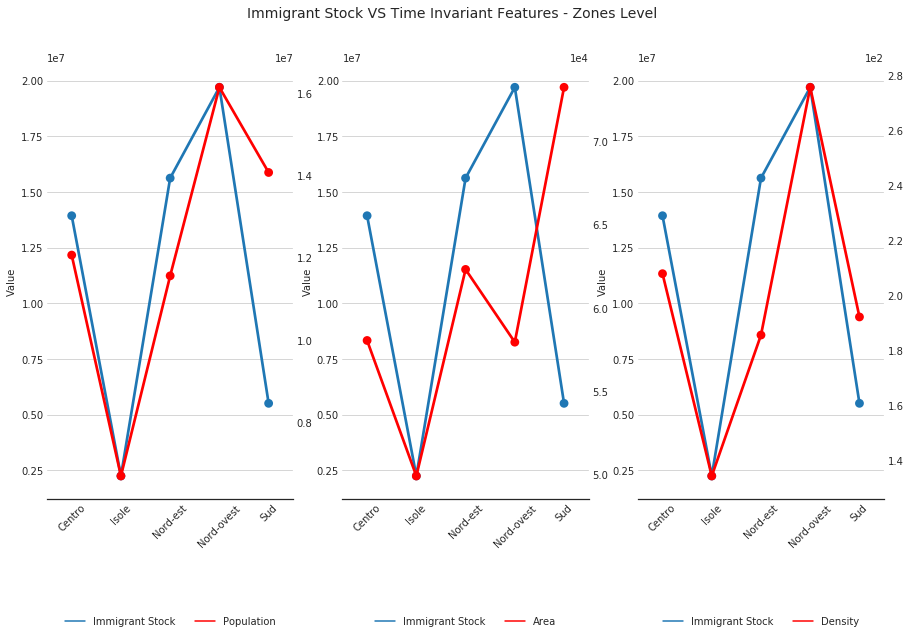
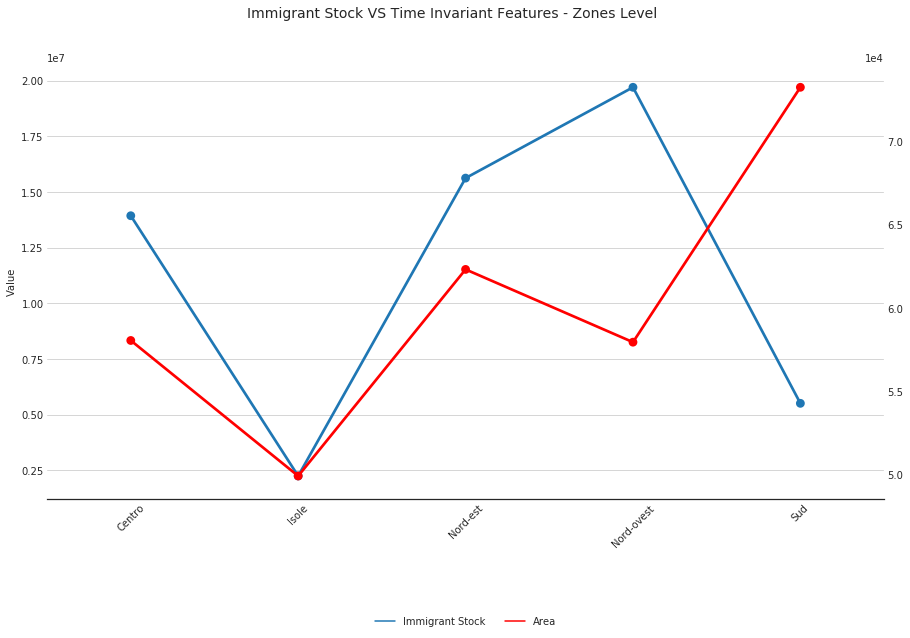
update plots

diff --git a/plot_data_functions.py b/plot_data_functions.py
@@ -8,7 +8,7 @@ import matplotlib.lines as mlines
 def relation_plot_time_invariant(data_, cols, y, rot, title, save, path):
     fig = plt.figure(1, figsize=(15,8))
 
-    plt_seed = 131
+    plt_seed = 111
     for c in cols:
         sns.set_style("whitegrid")
 

diff --git a/README.md b/README.md
@@ -110,7 +110,9 @@ To compute the distances between Sicily-Sardinia and the other Italian regions, 
 In particular:
 - from Sicily: ![](https://latex.codecogs.com/gif.latex?%5Cleft%5C%7B%5Cbegin%7Bmatrix%7D%20d_%7B%28origin%2C%20Trapani%29%7D%20&plus;%20d_%7B%28Trapani%2C%20Cagliari%29%7D%20&plus;%20d_%7B%28Cagliari%2C%20destination%29%7D%20%26%20%5Ctext%7Bif%20destination%20in%20Sardinia%7D%20%5C%5C%20d_%7B%28origin%2C%20Messina%29%7D%20&plus;%20d_%7B%28Messina%2C%20Villa%20San%20Giovanni%29%7D%20&plus;%20d_%7B%28Villa%20San%20Giovanni%2C%20destination%29%7D%20%26%20%5Ctext%7Botherwise%7D%20%5Cend%7Bmatrix%7D%5Cright.)
 - from Sardinia:
-![](https://latex.codecogs.com/gif.latex?%5Cleft%5C%7B%5Cbegin%7Bmatrix%7D%20d_%7B%28origin%2C%20Cagliari%29%7D%20&plus;%20d_%7B%28Cagliari%2C%20Trapani%29%7D%20&plus;%20d_%7B%28Trapani%2C%20destination%20%29%7D%20%26%20%5Ctext%7Bif%20destination%20in%20Sicily%7D%20%5C%5C%20min%5Cleft%20%28d_%7BMessina%7D%2C%20d_%7BLivorno%7D%2C%20d_%7BCivitavecchia%7D%20%5Cright%29%20%26%20%5Ctext%7Botherwise%7D%20%5Cend%7Bmatrix%7D%5Cright.), where:
+![](https://latex.codecogs.com/gif.latex?%5Cleft%5C%7B%5Cbegin%7Bmatrix%7D%20d_%7B%28origin%2C%20Cagliari%29%7D%20&plus;%20d_%7B%28Cagliari%2C%20Trapani%29%7D%20&plus;%20d_%7B%28Trapani%2C%20destination%20%29%7D%20%26%20%5Ctext%7Bif%20destination%20in%20Sicily%7D%20%5C%5C%20min%5Cleft%20%28d_%7BMessina%7D%2C%20d_%7BLivorno%7D%2C%20d_%7BCivitavecchia%7D%20%5Cright%29%20%26%20%5Ctext%7Botherwise%7D%20%5Cend%7Bmatrix%7D%5Cright.),
+
+where:
 1. ![](https://latex.codecogs.com/gif.latex?%5Cinline%20d_%7BMessina%7D%20%3D%20d_%7B%28origin%2C%20Cagliari%29%7D%20&plus;%20d_%7B%28Cagliari%2C%20Trapani%29%7D%20&plus;%20d_%7B%28Trapani%2C%20Messina%29%7D%20&plus;%20d_%7B%28Messina%2C%20Villa%20San%20Giovanni%29%7D%20&plus;%20d_%7B%28Villa%20San%20Giovanni%2C%20destination%29%7D)
 2. ![](https://latex.codecogs.com/gif.latex?%5Cinline%20d_%7BLivorno%7D%20%3D%20d_%7B%28origin%2C%20Olbia%29%7D%20&plus;%20d_%7B%28Olbia%2C%20Livorno%29%7D%20&plus;%20d_%7B%28Livorno%2C%20destination%29%7D)
 3. ![](https://latex.codecogs.com/gif.latex?%5Cinline%20d_%7BCivitavecchia%7D%20%3D%20d_%7B%28origin%2C%20Olbia%29%7D%20&plus;%20d_%7B%28Olbia%2C%20Civitavecchia%29%7D%20&plus;%20d_%7B%28Civitavecchia%2C%20destination%29%7D)
@@ -135,4 +137,7 @@ Some features can not be used, due to the availability of data:
 Some others, due to statistical problems:
 - **Economic situation opinions (Famigie per capacità di arrivare a fine mese)**: around 10.4% of data are not statistically significant and 4.6% do not reach the half of the minimum (ISTAT definition: Il dato si definisce poco significativo nel caso in cui corrisponda ad una numerosità campionaria compresa tra 20 e 49 unità.)
 
-## First Model
+In order to see the relationship between the Immigrant flow and other additional features, let's plot them.
+
+
+## Regression Model for Data Panel
